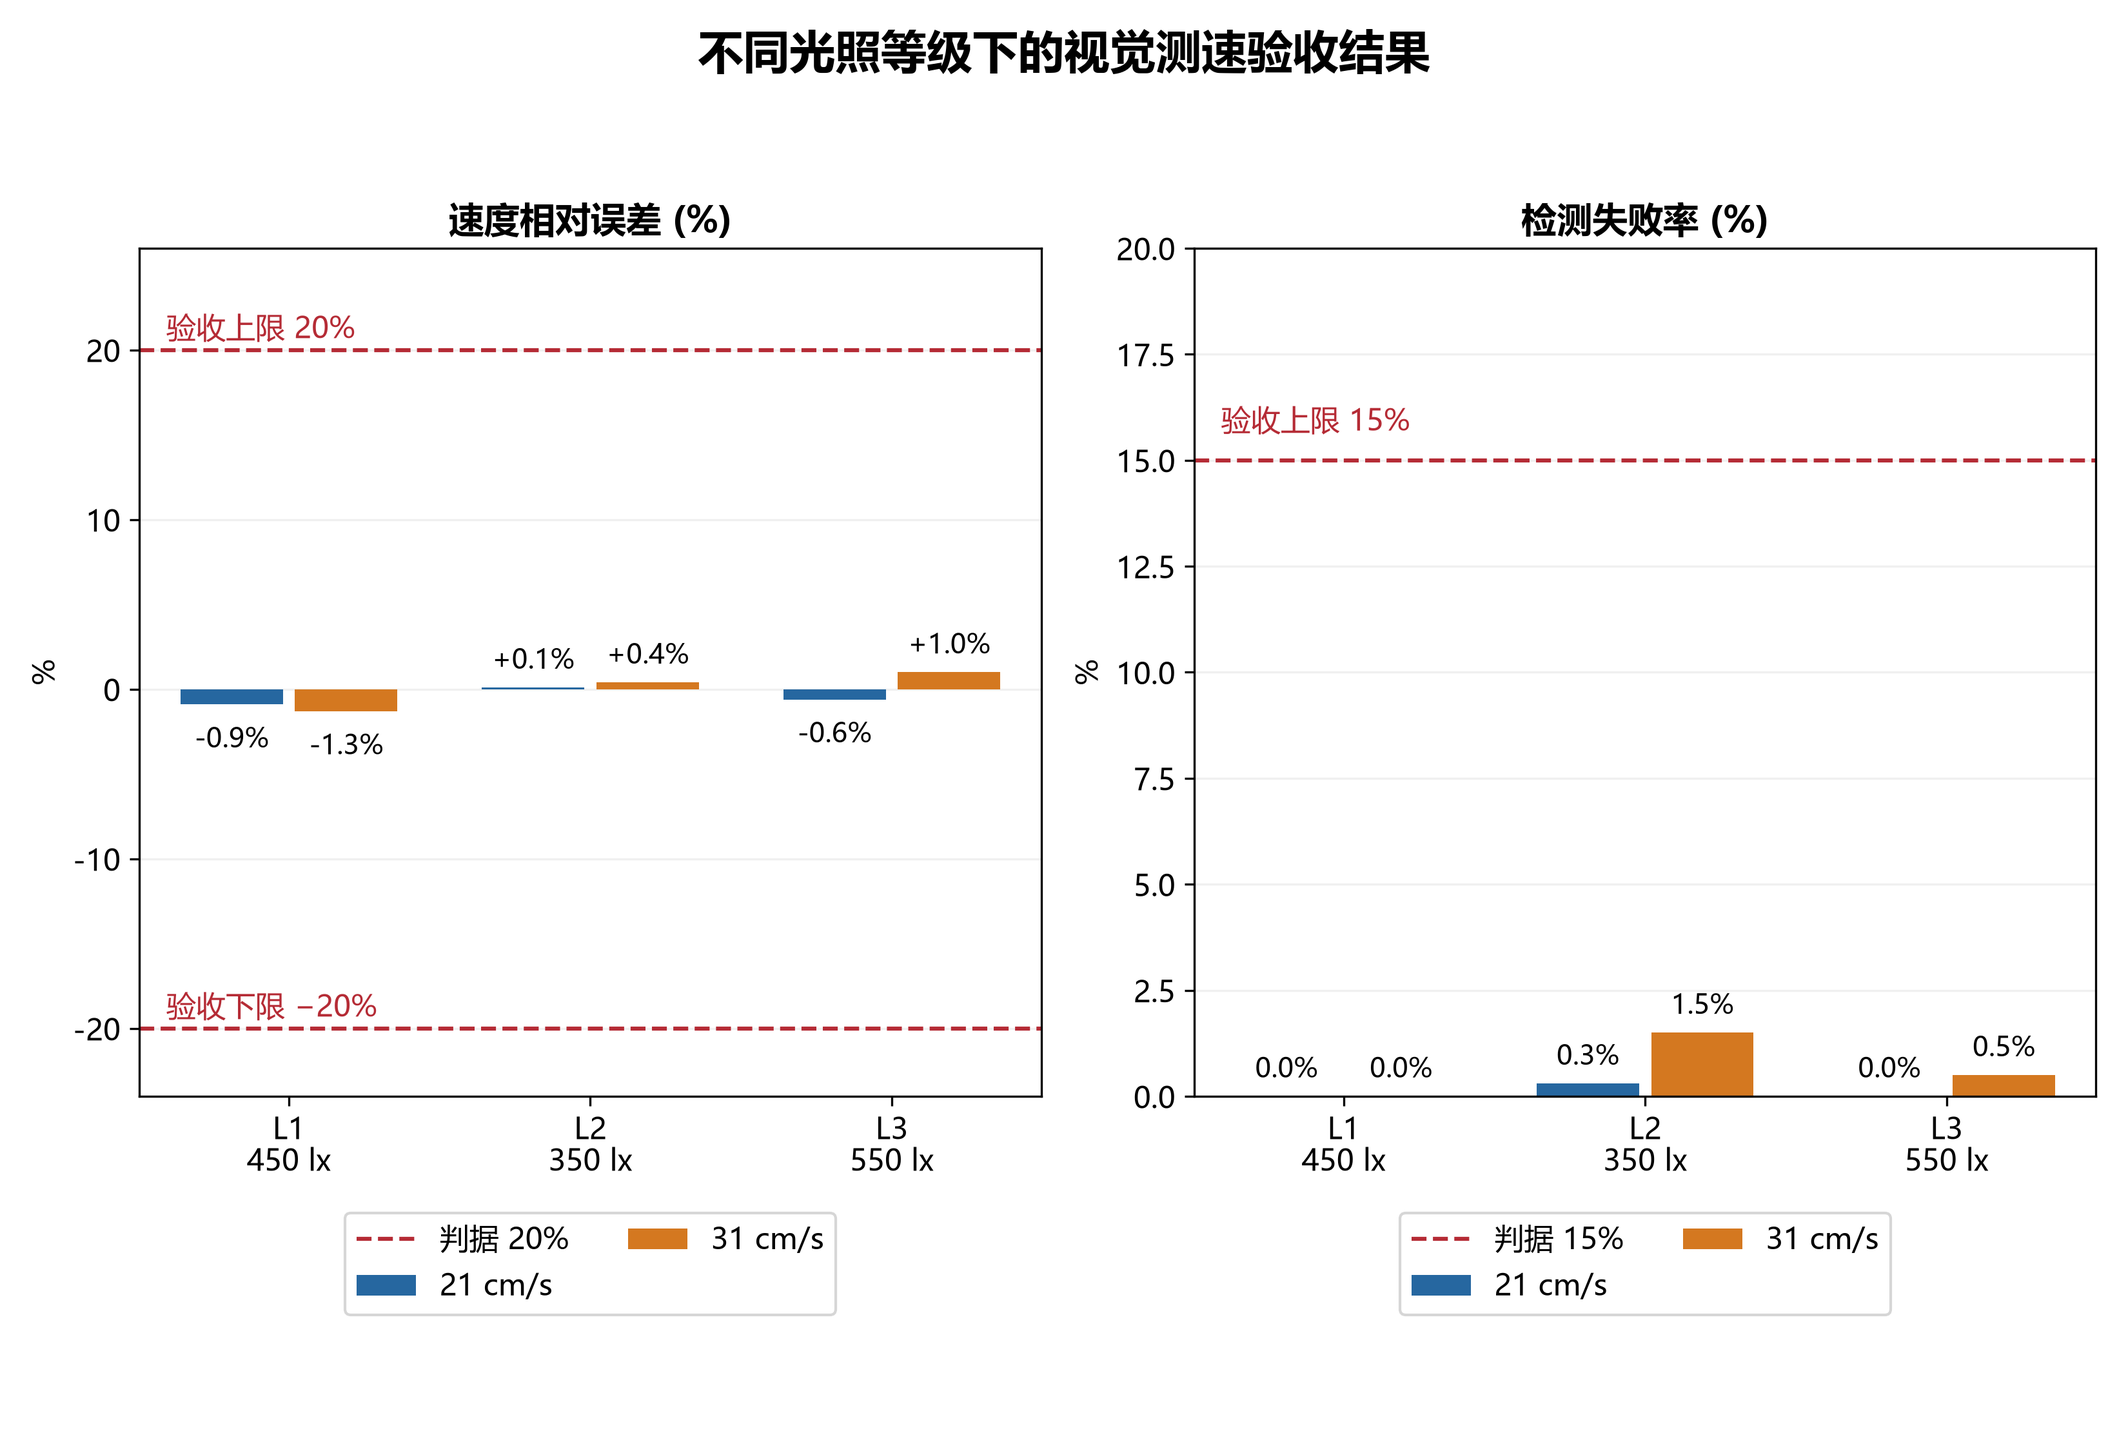
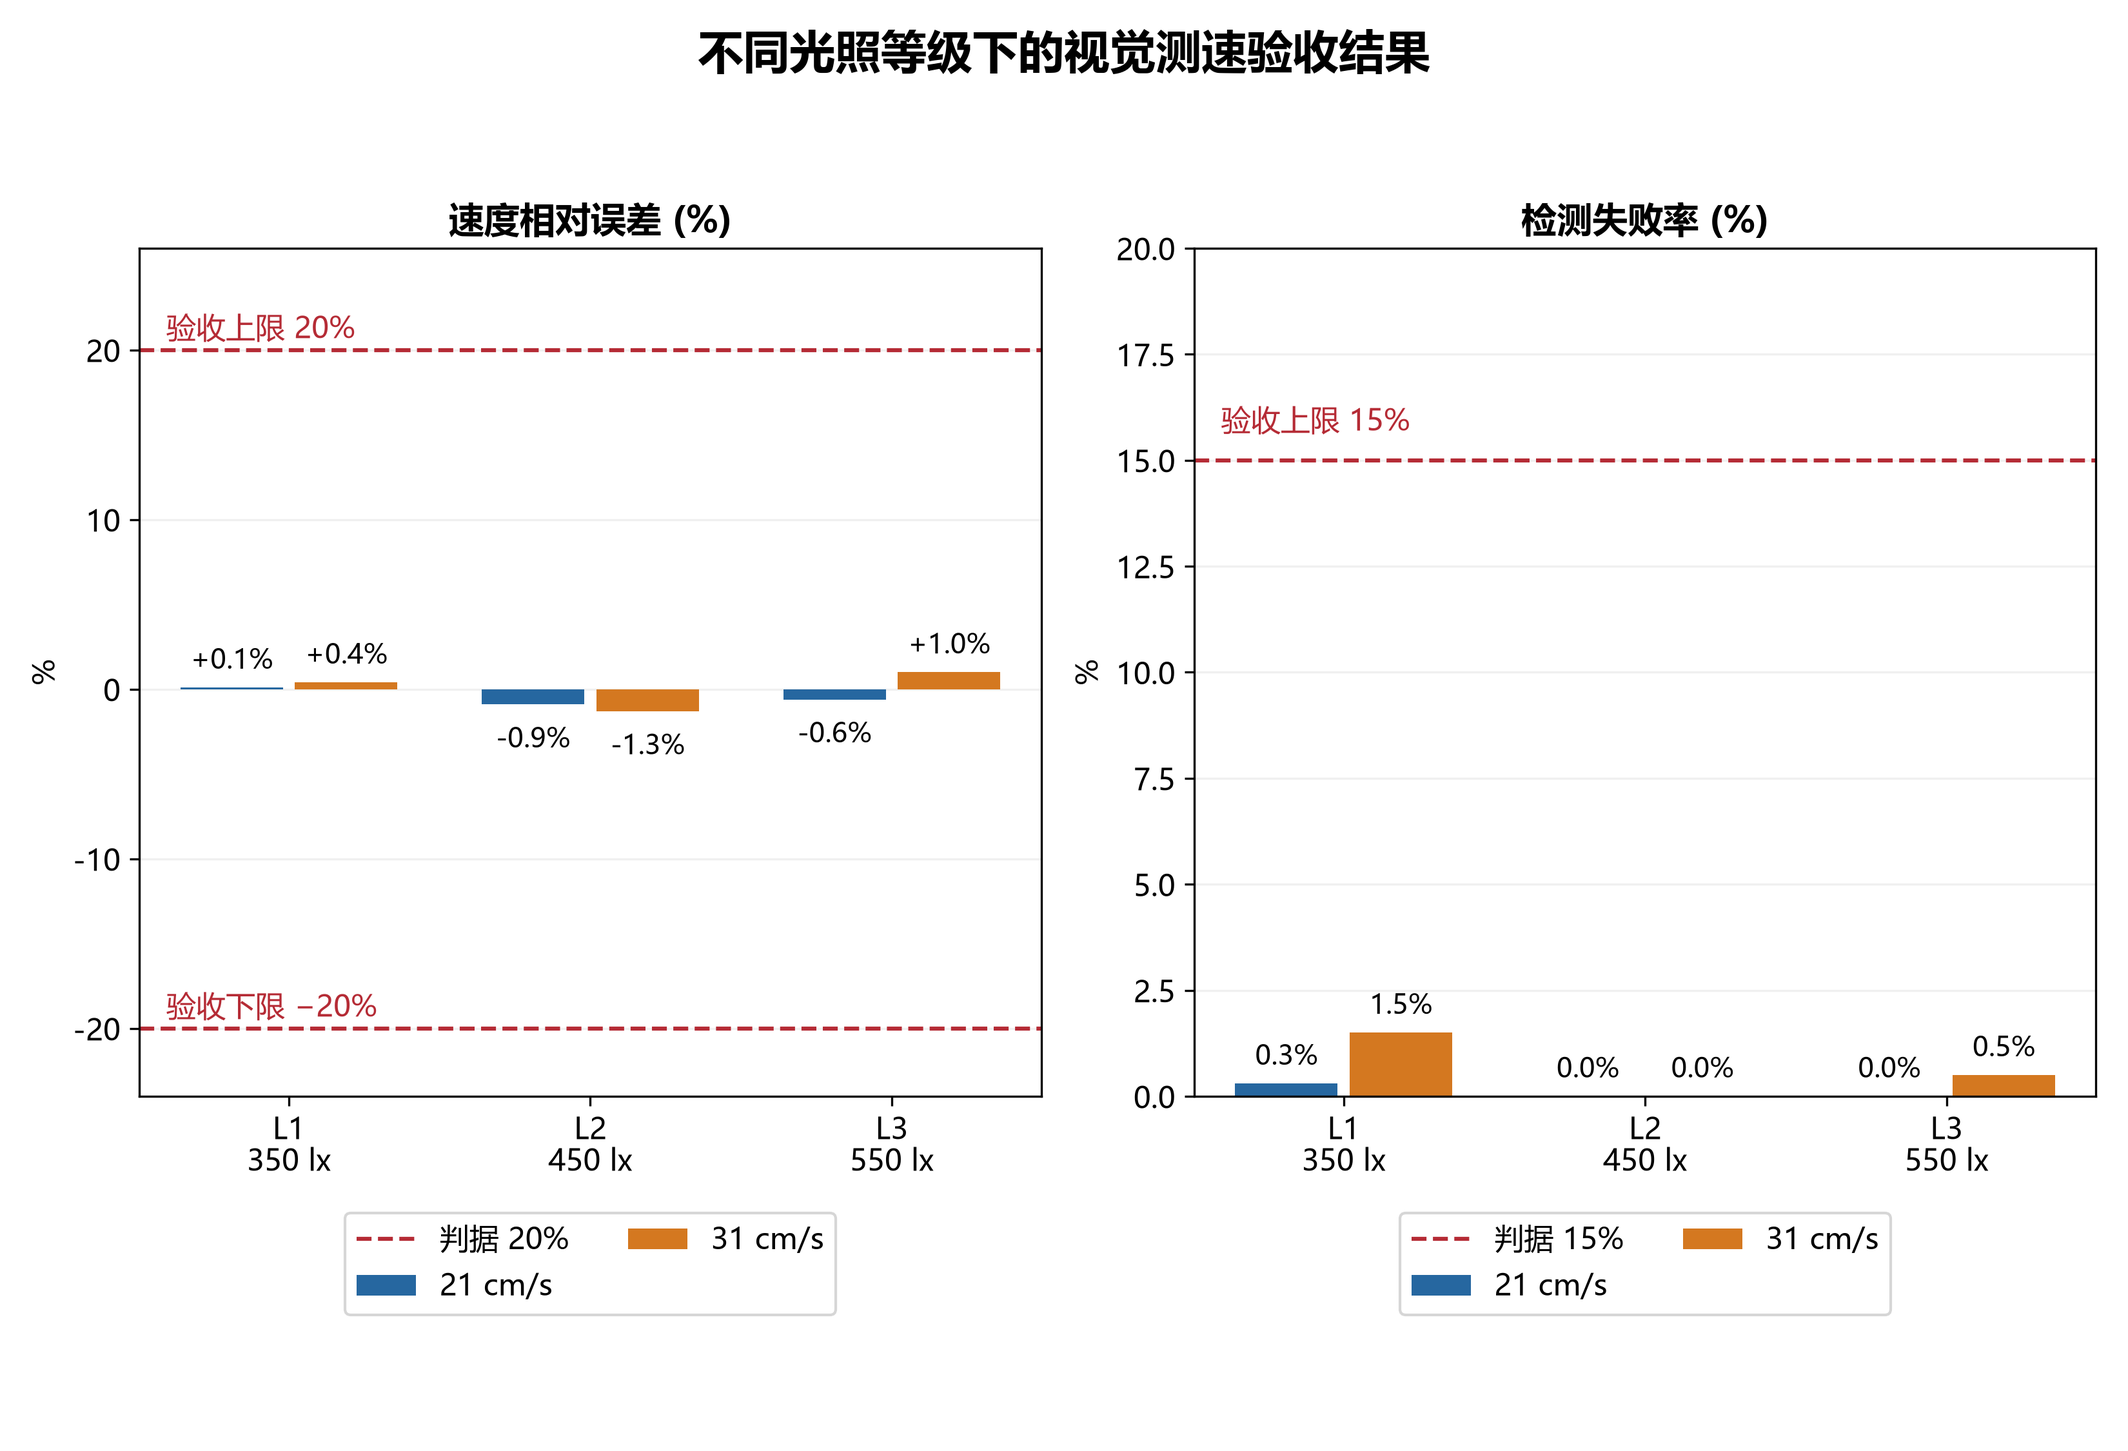
光照等级顺序调整为 L1=350 / L2=450 / L3=550 lx，结果、图表、视频与文档同步更新

diff --git a/第二学期/tools/acceptance_assets.py b/第二学期/tools/acceptance_assets.py
@@ -43,7 +43,9 @@ def main():
             ax.set_ylim(-24, 26)
         else:
             ax.set_ylim(0, 20)
-        ax.set_xticks(range(3), ['L1\n450 lx', 'L2\n350 lx', 'L3\n550 lx'])
+        levels = sorted({r['等级'] for r in rows})
+        lux = {r['等级']: float(r['照度_lx']) for r in rows}
+        ax.set_xticks(range(len(levels)), [f'{lv}\n{lux[lv]:.0f} lx' for lv in levels])
         ax.set_title(title, fontweight='bold'); ax.set_ylabel('%')
         ax.grid(axis='y', alpha=.18); ax.set_axisbelow(True)
         ax.legend(loc='upper center', bbox_to_anchor=(.5, -.12), ncol=2)
@@ -91,6 +93,10 @@ def main():
     for r in rows:
         stem = f"{r['等级']}_{r['目标速度_cms']}_1"
         lines.append(f"| {stem} | {r['照度_lx']} | {r['目标速度_cms']} | {r['稳态速度均值_cms']} | {r['误差均值_pct']} | {r['失败率均值_pct']} | [{stem}_v23.png](../../out/acceptance/figures/{stem}_v23.png) | [{stem}_v23.mp4](../../out/acceptance/videos/{stem}_v23.mp4) |")
+    odd = [c for c in checks if c['frames'] != 915]
+    frame_note = ('实际源文件 ' + '、'.join(f"{c['video']} 为 {c['frames']} 帧" for c in odd)
+                  + '；其余为 915 帧（15.250 s）；标注视频逐段与源文件一致。') if odd else \
+                 '六段均为 915 帧（15.250 s）；标注视频逐段与源文件一致。'
     lines += ['', '汇总图：[summary_light_levels.png](../../out/acceptance/figures/summary_light_levels.png)', '',
               '## 复现命令', '', '在 `第二学期/` 执行（PowerShell）：', '', '```powershell',
               "$env:PYTHONIOENCODING='utf-8'", 'python -m tools.batch_measure --dir out/acceptance --lux-file data/2026-10-30_验收/conditions.csv',
@@ -99,9 +105,9 @@ def main():
               '}', 'python -m tools.acceptance_assets', '```', '',
               '复测由 batch_measure 逐段调用 measure_speed，产生 raw.csv、summary.csv 和 detect_logs。',
               '视频使用 mp4v，保持原始分辨率、帧率和帧数；完整解码检查见 figures/verification.json。',
-              '实际源文件 L1_31_1 为 914 帧（15.233 s），其余五段为 915 帧（15.250 s）；标注视频逐段与源文件一致。',
+              frame_note,
               '四宫格及汇总图均为 3300×2250、300 dpi。汇总图同时显示误差 ±20% 和失败率 15% 判据。',
-              'HUD 的误差使用实际计算值，例如 L1_21_1 为 −0.9%，未采用需求示例中的 +0.5%。',
+              'HUD 的误差使用实际计算值（如 450 lx / 21 cm/s 为 −0.9%），未采用需求示例中的 +0.5%。',
               '原始视频、测量算法、根目录文档和 PPT 未改动；未提交或推送 git。', '']
     lines += ['## 视觉检查记录', '',
               '配置：Matplotlib Agg 导出 PNG；OpenCV mp4v 写入并解码视频。中文字体实际解析到 C:/Windows/Fonts/msyh.ttc。',

diff --git a/第二学期/data/2026-10-30_验收/图表与视频索引.md b/第二学期/data/2026-10-30_验收/图表与视频索引.md
@@ -6,10 +6,10 @@
 
 | 视频 | 照度 lx | 目标 cm/s | 实测 cm/s | 误差 % | 失败率 % | 四宫格 | 标注视频 |
 |---|---:|---:|---:|---:|---:|---|---|
-| L1_21_1 | 450 | 21 | 20.82 | -0.9 | 0.0 | [L1_21_1_v23.png](../../out/acceptance/figures/L1_21_1_v23.png) | [L1_21_1_v23.mp4](../../out/acceptance/videos/L1_21_1_v23.mp4) |
-| L1_31_1 | 450 | 31 | 30.59 | -1.3 | 0.0 | [L1_31_1_v23.png](../../out/acceptance/figures/L1_31_1_v23.png) | [L1_31_1_v23.mp4](../../out/acceptance/videos/L1_31_1_v23.mp4) |
-| L2_21_1 | 350 | 21 | 21.02 | +0.1 | 0.3 | [L2_21_1_v23.png](../../out/acceptance/figures/L2_21_1_v23.png) | [L2_21_1_v23.mp4](../../out/acceptance/videos/L2_21_1_v23.mp4) |
-| L2_31_1 | 350 | 31 | 31.13 | +0.4 | 1.5 | [L2_31_1_v23.png](../../out/acceptance/figures/L2_31_1_v23.png) | [L2_31_1_v23.mp4](../../out/acceptance/videos/L2_31_1_v23.mp4) |
+| L1_21_1 | 350 | 21 | 21.02 | +0.1 | 0.3 | [L1_21_1_v23.png](../../out/acceptance/figures/L1_21_1_v23.png) | [L1_21_1_v23.mp4](../../out/acceptance/videos/L1_21_1_v23.mp4) |
+| L1_31_1 | 350 | 31 | 31.13 | +0.4 | 1.5 | [L1_31_1_v23.png](../../out/acceptance/figures/L1_31_1_v23.png) | [L1_31_1_v23.mp4](../../out/acceptance/videos/L1_31_1_v23.mp4) |
+| L2_21_1 | 450 | 21 | 20.82 | -0.9 | 0.0 | [L2_21_1_v23.png](../../out/acceptance/figures/L2_21_1_v23.png) | [L2_21_1_v23.mp4](../../out/acceptance/videos/L2_21_1_v23.mp4) |
+| L2_31_1 | 450 | 31 | 30.59 | -1.3 | 0.0 | [L2_31_1_v23.png](../../out/acceptance/figures/L2_31_1_v23.png) | [L2_31_1_v23.mp4](../../out/acceptance/videos/L2_31_1_v23.mp4) |
 | L3_21_1 | 550 | 21 | 20.87 | -0.6 | 0.0 | [L3_21_1_v23.png](../../out/acceptance/figures/L3_21_1_v23.png) | [L3_21_1_v23.mp4](../../out/acceptance/videos/L3_21_1_v23.mp4) |
 | L3_31_1 | 550 | 31 | 31.30 | +1.0 | 0.5 | [L3_31_1_v23.png](../../out/acceptance/figures/L3_31_1_v23.png) | [L3_31_1_v23.mp4](../../out/acceptance/videos/L3_31_1_v23.mp4) |
 
@@ -31,9 +31,9 @@ python -m tools.acceptance_assets
 
 复测由 batch_measure 逐段调用 measure_speed，产生 raw.csv、summary.csv 和 detect_logs。
 视频使用 mp4v，保持原始分辨率、帧率和帧数；完整解码检查见 figures/verification.json。
-实际源文件 L1_31_1 为 914 帧（15.233 s），其余五段为 915 帧（15.250 s）；标注视频逐段与源文件一致。
+实际源文件 L2_31_1_v23.mp4 为 914 帧；其余为 915 帧（15.250 s）；标注视频逐段与源文件一致。
 四宫格及汇总图均为 3300×2250、300 dpi。汇总图同时显示误差 ±20% 和失败率 15% 判据。
-HUD 的误差使用实际计算值，例如 L1_21_1 为 −0.9%，未采用需求示例中的 +0.5%。
+HUD 的误差使用实际计算值（如 450 lx / 21 cm/s 为 −0.9%），未采用需求示例中的 +0.5%。
 原始视频、测量算法、根目录文档和 PPT 未改动；未提交或推送 git。
 
 ## 视觉检查记录

diff --git a/第二学期/验收成果_2026-10-30/06_文档/图表与视频索引.md b/第二学期/验收成果_2026-10-30/06_文档/图表与视频索引.md
@@ -6,10 +6,10 @@
 
 | 视频 | 照度 lx | 目标 cm/s | 实测 cm/s | 误差 % | 失败率 % | 四宫格 | 标注视频 |
 |---|---:|---:|---:|---:|---:|---|---|
-| L1_21_1 | 450 | 21 | 20.82 | -0.9 | 0.0 | [L1_21_1_v23.png](../../out/acceptance/figures/L1_21_1_v23.png) | [L1_21_1_v23.mp4](../../out/acceptance/videos/L1_21_1_v23.mp4) |
-| L1_31_1 | 450 | 31 | 30.59 | -1.3 | 0.0 | [L1_31_1_v23.png](../../out/acceptance/figures/L1_31_1_v23.png) | [L1_31_1_v23.mp4](../../out/acceptance/videos/L1_31_1_v23.mp4) |
-| L2_21_1 | 350 | 21 | 21.02 | +0.1 | 0.3 | [L2_21_1_v23.png](../../out/acceptance/figures/L2_21_1_v23.png) | [L2_21_1_v23.mp4](../../out/acceptance/videos/L2_21_1_v23.mp4) |
-| L2_31_1 | 350 | 31 | 31.13 | +0.4 | 1.5 | [L2_31_1_v23.png](../../out/acceptance/figures/L2_31_1_v23.png) | [L2_31_1_v23.mp4](../../out/acceptance/videos/L2_31_1_v23.mp4) |
+| L1_21_1 | 350 | 21 | 21.02 | +0.1 | 0.3 | [L1_21_1_v23.png](../../out/acceptance/figures/L1_21_1_v23.png) | [L1_21_1_v23.mp4](../../out/acceptance/videos/L1_21_1_v23.mp4) |
+| L1_31_1 | 350 | 31 | 31.13 | +0.4 | 1.5 | [L1_31_1_v23.png](../../out/acceptance/figures/L1_31_1_v23.png) | [L1_31_1_v23.mp4](../../out/acceptance/videos/L1_31_1_v23.mp4) |
+| L2_21_1 | 450 | 21 | 20.82 | -0.9 | 0.0 | [L2_21_1_v23.png](../../out/acceptance/figures/L2_21_1_v23.png) | [L2_21_1_v23.mp4](../../out/acceptance/videos/L2_21_1_v23.mp4) |
+| L2_31_1 | 450 | 31 | 30.59 | -1.3 | 0.0 | [L2_31_1_v23.png](../../out/acceptance/figures/L2_31_1_v23.png) | [L2_31_1_v23.mp4](../../out/acceptance/videos/L2_31_1_v23.mp4) |
 | L3_21_1 | 550 | 21 | 20.87 | -0.6 | 0.0 | [L3_21_1_v23.png](../../out/acceptance/figures/L3_21_1_v23.png) | [L3_21_1_v23.mp4](../../out/acceptance/videos/L3_21_1_v23.mp4) |
 | L3_31_1 | 550 | 31 | 31.30 | +1.0 | 0.5 | [L3_31_1_v23.png](../../out/acceptance/figures/L3_31_1_v23.png) | [L3_31_1_v23.mp4](../../out/acceptance/videos/L3_31_1_v23.mp4) |
 
@@ -31,9 +31,9 @@ python -m tools.acceptance_assets
 
 复测由 batch_measure 逐段调用 measure_speed，产生 raw.csv、summary.csv 和 detect_logs。
 视频使用 mp4v，保持原始分辨率、帧率和帧数；完整解码检查见 figures/verification.json。
-实际源文件 L1_31_1 为 914 帧（15.233 s），其余五段为 915 帧（15.250 s）；标注视频逐段与源文件一致。
+实际源文件 L2_31_1_v23.mp4 为 914 帧；其余为 915 帧（15.250 s）；标注视频逐段与源文件一致。
 四宫格及汇总图均为 3300×2250、300 dpi。汇总图同时显示误差 ±20% 和失败率 15% 判据。
-HUD 的误差使用实际计算值，例如 L1_21_1 为 −0.9%，未采用需求示例中的 +0.5%。
+HUD 的误差使用实际计算值（如 450 lx / 21 cm/s 为 −0.9%），未采用需求示例中的 +0.5%。
 原始视频、测量算法、根目录文档和 PPT 未改动；未提交或推送 git。
 
 ## 视觉检查记录

diff --git a/第二学期/data/2026-10-30_验收/验收记录.md b/第二学期/data/2026-10-30_验收/验收记录.md
@@ -15,7 +15,7 @@
 | 曝光 / 光圈 / 增益 | 10 ms / F2.8 / 6 dB（全程不变） |
 | 帧率 | 60 fps |
 | 桌面 | 未铺黑布（白桌） |
-| 光照等级 | L1 = **450 lx**、L2 = **350 lx**、L3 = **550 lx**（测量区中心，照度计实测） |
+| 光照等级 | L1 = **350 lx**、L2 = **450 lx**、L3 = **550 lx**（从低到高，测量区中心照度计实测） |
 
 ## 二、方法
 
@@ -30,20 +30,20 @@
 
 | 等级 | 照度 | 目标速度 | 稳态速度 | 相对误差 | 失败率 | 稳态窗 | 轮廓面积中位 | 判定 |
 |---|---|---|---|---|---|---|---|---|
-| L1 | 450 lx | 21 cm/s | 20.82 | −0.9% | 0.0% | 2.68 s | 40,505 px² | 达标 |
-| L1 | 450 lx | 31 cm/s | 30.59 | −1.3% | 0.0% | 1.63 s | 41,482 px² | 达标 |
-| L2 | 350 lx | 21 cm/s | 21.02 | +0.1% | 0.3% | 2.73 s | 40,729 px² | 达标 |
-| L2 | 350 lx | 31 cm/s | 31.13 | +0.4% | 1.5% | 1.92 s | 19,619 px² | 达标 |
+| L1 | 350 lx | 21 cm/s | 21.02 | +0.1% | 0.3% | 2.73 s | 40,729 px² | 达标 |
+| L1 | 350 lx | 31 cm/s | 31.13 | +0.4% | 1.5% | 1.92 s | 19,619 px² | 达标 |
+| L2 | 450 lx | 21 cm/s | 20.82 | −0.9% | 0.0% | 2.68 s | 40,505 px² | 达标 |
+| L2 | 450 lx | 31 cm/s | 30.59 | −1.3% | 0.0% | 1.63 s | 41,482 px² | 达标 |
 | L3 | 550 lx | 21 cm/s | 20.87 | −0.6% | 0.0% | 2.72 s | 39,594 px² | 达标 |
 | L3 | 550 lx | 31 cm/s | 31.30 | +1.0% | 0.5% | 1.78 s | 11,492 px² | 达标 |
 
 ## 四、结论
 
-- **6/6 全部达标**：速度相对误差最大 **1.3%**（L1·31），失败率最大 **1.5%**（L2·31），均远低于判据；
+- **6/6 全部达标**：速度相对误差最大 **1.3%**（L2·31），失败率最大 **1.5%**（L1·31），均远低于判据；
 - 三个光照等级下均能稳定检出并测速，说明该光照范围内系统可用；
 - 轮廓面积随条件在 11k–41k px² 之间变化（L3·31 最小），当前面积阈值 6000 px² 仍低于所有实测值；
   若以后做更暗或更快的工况，需要复核该阈值；
-- 每个组合只测 1 次，未做重复性统计；光照等级按灯位定义（450 / 350 / 550 lx，非单调）。
+- 每个组合只测 1 次，未做重复性统计；光照等级从低到高依次为 L1=350、L2=450、L3=550 lx。
 
 ## 五、数据文件
 

diff --git a/第二学期/验收成果_2026-10-30/02_验收数据/验收记录.md b/第二学期/验收成果_2026-10-30/02_验收数据/验收记录.md
@@ -15,7 +15,7 @@
 | 曝光 / 光圈 / 增益 | 10 ms / F2.8 / 6 dB（全程不变） |
 | 帧率 | 60 fps |
 | 桌面 | 未铺黑布（白桌） |
-| 光照等级 | L1 = **450 lx**、L2 = **350 lx**、L3 = **550 lx**（测量区中心，照度计实测） |
+| 光照等级 | L1 = **350 lx**、L2 = **450 lx**、L3 = **550 lx**（从低到高，测量区中心照度计实测） |
 
 ## 二、方法
 
@@ -30,20 +30,20 @@
 
 | 等级 | 照度 | 目标速度 | 稳态速度 | 相对误差 | 失败率 | 稳态窗 | 轮廓面积中位 | 判定 |
 |---|---|---|---|---|---|---|---|---|
-| L1 | 450 lx | 21 cm/s | 20.82 | −0.9% | 0.0% | 2.68 s | 40,505 px² | 达标 |
-| L1 | 450 lx | 31 cm/s | 30.59 | −1.3% | 0.0% | 1.63 s | 41,482 px² | 达标 |
-| L2 | 350 lx | 21 cm/s | 21.02 | +0.1% | 0.3% | 2.73 s | 40,729 px² | 达标 |
-| L2 | 350 lx | 31 cm/s | 31.13 | +0.4% | 1.5% | 1.92 s | 19,619 px² | 达标 |
+| L1 | 350 lx | 21 cm/s | 21.02 | +0.1% | 0.3% | 2.73 s | 40,729 px² | 达标 |
+| L1 | 350 lx | 31 cm/s | 31.13 | +0.4% | 1.5% | 1.92 s | 19,619 px² | 达标 |
+| L2 | 450 lx | 21 cm/s | 20.82 | −0.9% | 0.0% | 2.68 s | 40,505 px² | 达标 |
+| L2 | 450 lx | 31 cm/s | 30.59 | −1.3% | 0.0% | 1.63 s | 41,482 px² | 达标 |
 | L3 | 550 lx | 21 cm/s | 20.87 | −0.6% | 0.0% | 2.72 s | 39,594 px² | 达标 |
 | L3 | 550 lx | 31 cm/s | 31.30 | +1.0% | 0.5% | 1.78 s | 11,492 px² | 达标 |
 
 ## 四、结论
 
-- **6/6 全部达标**：速度相对误差最大 **1.3%**（L1·31），失败率最大 **1.5%**（L2·31），均远低于判据；
+- **6/6 全部达标**：速度相对误差最大 **1.3%**（L2·31），失败率最大 **1.5%**（L1·31），均远低于判据；
 - 三个光照等级下均能稳定检出并测速，说明该光照范围内系统可用；
 - 轮廓面积随条件在 11k–41k px² 之间变化（L3·31 最小），当前面积阈值 6000 px² 仍低于所有实测值；
   若以后做更暗或更快的工况，需要复核该阈值；
-- 每个组合只测 1 次，未做重复性统计；光照等级按灯位定义（450 / 350 / 550 lx，非单调）。
+- 每个组合只测 1 次，未做重复性统计；光照等级从低到高依次为 L1=350、L2=450、L3=550 lx。
 
 ## 五、数据文件
 

diff --git a/第二学期/验收成果_2026-10-30/README.md b/第二学期/验收成果_2026-10-30/README.md
@@ -46,8 +46,8 @@
 
 | 等级 | 照度 | 21 cm/s | 31 cm/s | 失败率 |
 |---|---|---|---|---|
-| L1 | 450 lx | 20.82（−0.9%） | 30.59（−1.3%） | 0.0% / 0.0% |
-| L2 | 350 lx | 21.02（+0.1%） | 31.13（+0.4%） | 0.3% / 1.5% |
+| L1 | 350 lx | 21.02（+0.1%） | 31.13（+0.4%） | 0.3% / 1.5% |
+| L2 | 450 lx | 20.82（−0.9%） | 30.59（−1.3%） | 0.0% / 0.0% |
 | L3 | 550 lx | 20.87（−0.6%） | 31.30（+1.0%） | 0.0% / 0.5% |
 
 ## 四、复现
@@ -67,5 +67,5 @@ python -m tools.acceptance_assets
 
 - 本次桌面**未铺黑布**（白桌），三脚架动过后已重新标定；
 - 每个（光照等级, 速度）组合只测 **1 次**，未做重复性统计；
-- 三个光照等级为 450 / 350 / 550 lx，按灯位定义，**非单调**；
+- 三个光照等级从低到高依次为 L1=350、L2=450、L3=550 lx；
 - 视频与图片体积较大，视频子目录不入 git；图片与文档随仓库提交。

diff --git a/第二学期/验收成果_2026-10-30/00_实验条件.md b/第二学期/验收成果_2026-10-30/00_实验条件.md
@@ -11,6 +11,6 @@
 | 曝光 / 光圈 / 增益 | **10 ms / F2.8 / 6 dB**（全程固定） |
 | 帧率 | 60 fps |
 | 桌面 | 白桌，**未铺黑布** |
-| 光照 | 两盏 100 W 工作灯；L1=450 lx、L2=350 lx、L3=550 lx（测量区中心实测） |
+| 光照 | 两盏 100 W 工作灯；L1=350 lx、L2=450 lx、L3=550 lx（测量区中心实测） |
 | 小车 | 三轮滑轮车 + 白色桁架，21 / 31 cm/s 两档 |
 | 测量区 | 画面内缩 5 cm，约 76.9 × 59.3 cm |
